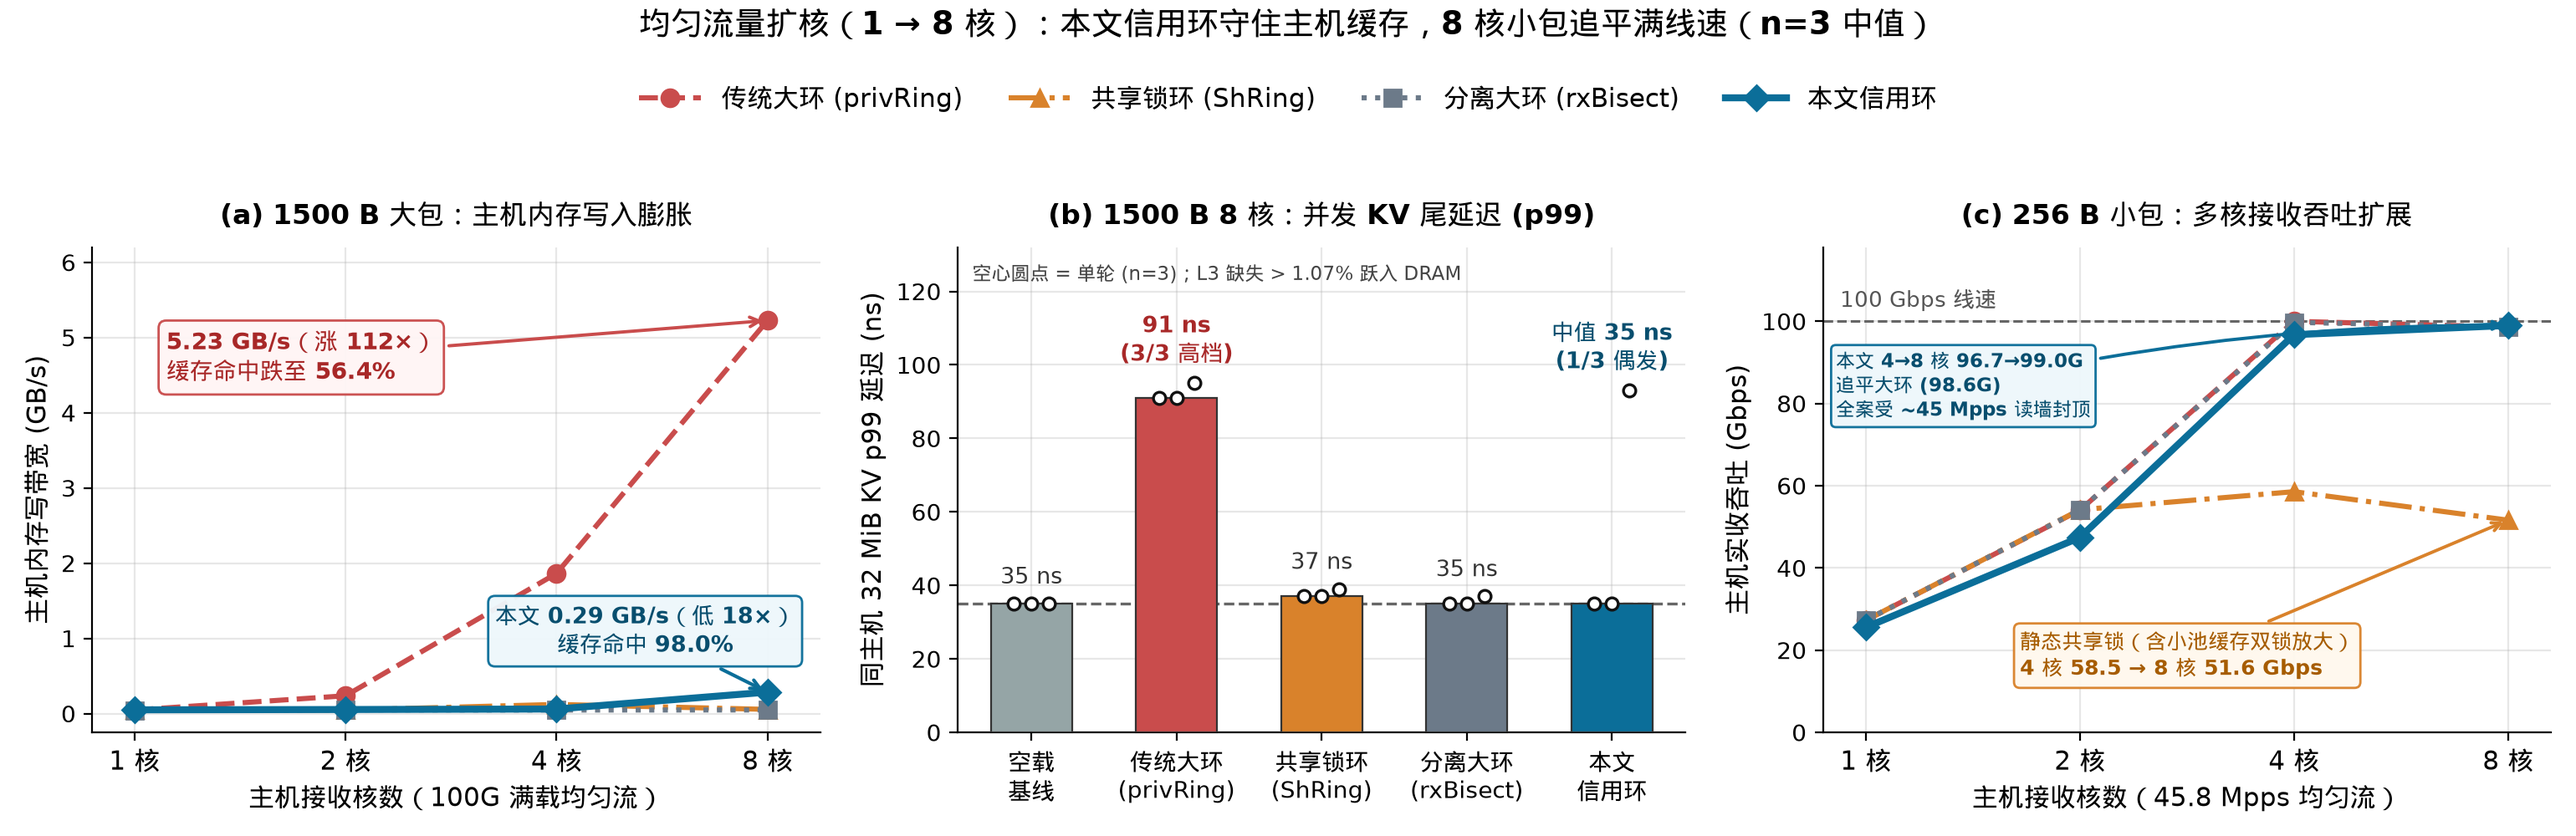
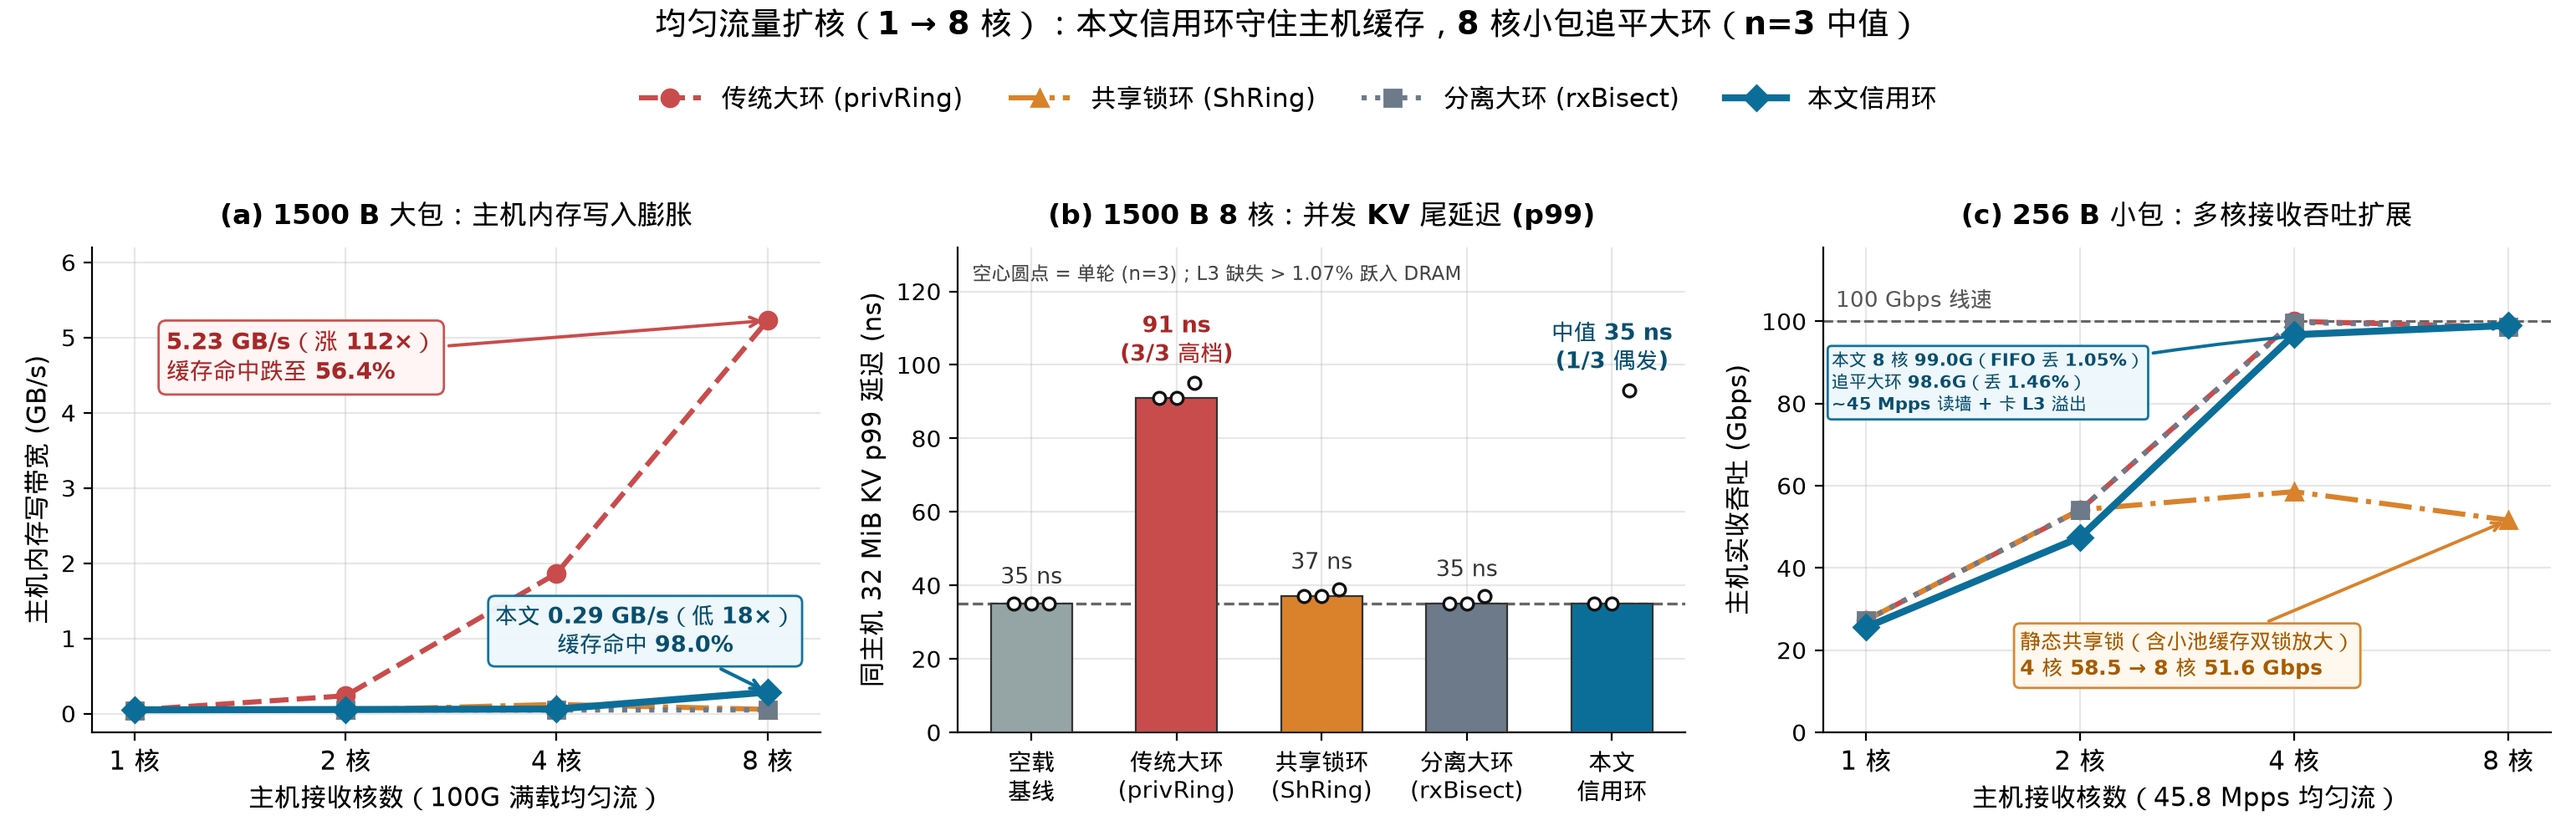
MRV-210 (Step 3 Fig 1c disclosure): state 8-core 256B uniform card-FIFO overflow loss (1.05%) vs privRing (1.46%) and tie to ~45 Mpps OUT_CNTS read wall and card L3 spill

Changed region(s): [[0.2494, 0.0, 0.7481, 0.062], [0.6857, 0.403, 0.8727, 0.527], [0.7169, 0.341, 0.7792, 0.372]]

diff --git a/docs/figures/mrv-210-uniform-scaling.py b/docs/figures/mrv-210-uniform-scaling.py
@@ -173,21 +173,23 @@ def main():
     sh_8c = med([r["summary"]["host_wire_gbps"] for r in by_cfg["p1_sh-ring_c8_256B_unif"]])
     cred_4c_256 = med([r["summary"]["host_wire_gbps"] for r in by_cfg["p1_credit-sdp_c4_256B_unif"]])
     cred_8c_256 = med([r["summary"]["host_wire_gbps"] for r in by_cfg["p1_credit-sdp_c8_256B_unif"]])
+    cred_8c_loss = med([r["summary"]["e2e_loss_pct"] for r in by_cfg["p1_credit-sdp_c8_256B_unif"]])
     priv_4c_256 = med([r["summary"]["host_wire_gbps"] for r in by_cfg["p1_priv-ring_c4_256B_unif"]])
     priv_8c_256 = med([r["summary"]["host_wire_gbps"] for r in by_cfg["p1_priv-ring_c8_256B_unif"]])
+    priv_8c_loss = med([r["summary"]["e2e_loss_pct"] for r in by_cfg["p1_priv-ring_c8_256B_unif"]])
 
     ax3.axhline(100.0, color="#666666", linestyle="--", linewidth=1.1, zorder=2)
-    ax3.text(-0.12, 103.5, "100 Gbps 线速", fontsize=9.2, color="#555555")
+    ax3.text(-0.14, 103.5, "100 Gbps 线速", fontsize=9.2, color="#555555")
 
     ax3.annotate(
-        f"本文 4→8 核 {cred_4c_256:.1f}→{cred_8c_256:.1f}G\n追平大环 ({priv_8c_256:.1f}G)\n全案受 ~45 Mpps 读墙封顶",
+        f"本文 8 核 {cred_8c_256:.1f}G（FIFO 丢 {cred_8c_loss:.2f}%）\n追平大环 {priv_8c_256:.1f}G（丢 {priv_8c_loss:.2f}%）\n~45 Mpps 读墙 + 卡 L3 溢出",
         xy=(3, cred_8c_256),
-        xytext=(-0.14, 77.0),
-        fontsize=8.4,
+        xytext=(-0.16, 78.5),
+        fontsize=7.5,
         fontweight="bold",
         color="#084e6e",
-        bbox=dict(boxstyle="round,pad=0.24", facecolor="#eef7fb", edgecolor="#0b6e99", alpha=0.96),
-        arrowprops=dict(arrowstyle="->", color="#0b6e99", lw=1.4, connectionstyle="arc3,rad=-0.06"),
+        bbox=dict(boxstyle="round,pad=0.22", facecolor="#eef7fb", edgecolor="#0b6e99", alpha=0.96),
+        arrowprops=dict(arrowstyle="->", color="#0b6e99", lw=1.4, connectionstyle="arc3,rad=-0.05"),
     )
     ax3.annotate(
         f"静态共享锁（含小池缓存双锁放大）\n4 核 {sh_4c:.1f} → 8 核 {sh_8c:.1f} Gbps",
@@ -210,7 +212,7 @@ def main():
 
     handles, labels = ax1.get_legend_handles_labels()
     fig.suptitle(
-        "均匀流量扩核（1 → 8 核）：本文信用环守住主机缓存，8 核小包追平满线速（n=3 中值）",
+        "均匀流量扩核（1 → 8 核）：本文信用环守住主机缓存，8 核小包追平大环（n=3 中值）",
         fontsize=13.8, fontweight="bold", y=0.99,
     )
     fig.legend(
